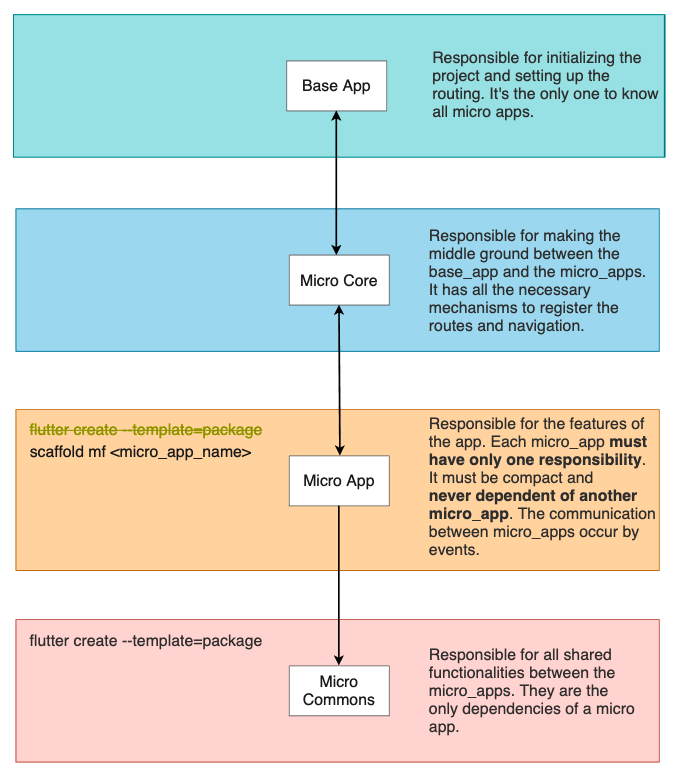
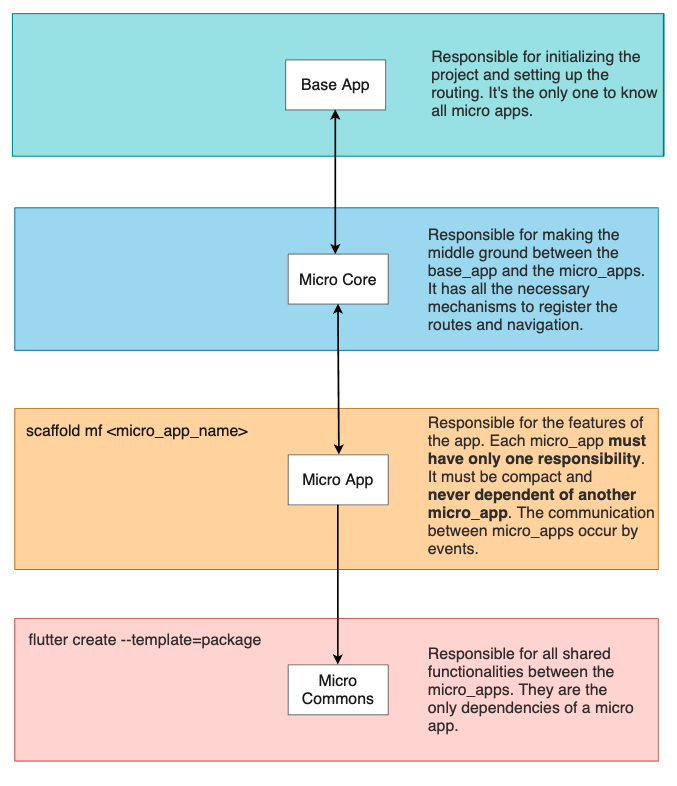
routing documentation

Changed region(s): [[0.0, 0.0, 0.9956, 0.9884]]

diff --git a/README.md b/README.md
@@ -1,7 +1,7 @@
 # Flutter Micro Front Ends Architecture
   
 
-This is a proposition for a micro front end implementation for Flutter apps.
+This is a proposal of a micro front end implementation for Flutter apps.
 
 As in per the micro services architecture, the micro apps can't know about the existence of other micro apps. 
 
@@ -19,6 +19,17 @@ See the diagrams below for a better overview.
 ## Example
 
 Run the app from the `base_app/` directory.
+
+## Creating a Micro App
+
+To create a micro app you can user the [**Flutter Micro Front End Scaffolding Tool**](https://github.com/nobrefelipe/flutter-micro-front-end-scaffolding-tool).
+
+
+Click on the link above and follow installation instructions, then in your micro apps folder run:
+```
+ $  scaffold mf <micro_app_name>
+```
+
 
 ## Communication between micro front ends
 
@@ -38,7 +49,7 @@ Every micro app can register as many events as they need. The events are registr
 
 ### **Best practices**
 
-Events are aways in the past sentence. And should always end with the 'Event' keywork.
+Events are aways in the past tense. And should always end with the 'Event' keywork.
 Thus, events are always triggered after an action.
 
 Eg.: `UserLoggedInEvent`, `AccountCreatedEvent`
@@ -99,6 +110,50 @@ We must register every route of the system in Routes.
     Routing.pushNamed(Routes.home, arguments: someArgs);
 
 ```
+### **Passing Arguments**
+
+When you navigate using named routes you can pass arguments via contructor when you set up the routes for the micro app.
+
+In the **micro app resolver** you register the routes in he `routes` getter and also define the arguments the view will receive.
+
+The arguments must be of `RouteEvent type`. THis is because we can navigate using the `Routing` class or via `Event`.
+
+```dart
+    // home_resolver.dart
+
+    @override
+    Map<String, WidgetBuilderArgs> get routes => {
+        microAppName: (context, args) => HomeView(args as UserLoggedInEvent), //home_view.dart
+    };
+
+```
+
+And you can get the argument passed like so:
+
+```dart
+    //home_view.dart
+
+    class HomeView extends StatelessWidget {
+
+        final UserLoggedInEvent args;
+        HomeView(this.args);
+
+        //...
+    }
+```
+
+Then when you need to navigate to the Home Micro App:
+
+```dart
+    // See Using Micro Apps section below to knw how to register routes.
+
+    Routing.pushNamed(
+        Routes.home,
+        arguments: RouteEvents.homeEvents.userLoggedInEvent('Felipe'),
+    );
+```
+
+
 
 ### **Custom Route Tansitions**
 
@@ -113,14 +168,6 @@ You can use custom route transitions predefined in the `Transitions` class.
 ```
 
 
-## Creating a Micro App
-
-To create a micro app you can user the [**Flutter Micro Front End Scaffolding Tool**](https://github.com/nobrefelipe/flutter-micro-front-end-scaffolding-tool).
-
-Click on the link above and follow installation instructions, then in your micro apps folder run:
-```
- $  scaffold mf <micro_app_name>
-```
 
 ## Using Micro Apps
 When you create a micro app you need to register it in two places.
